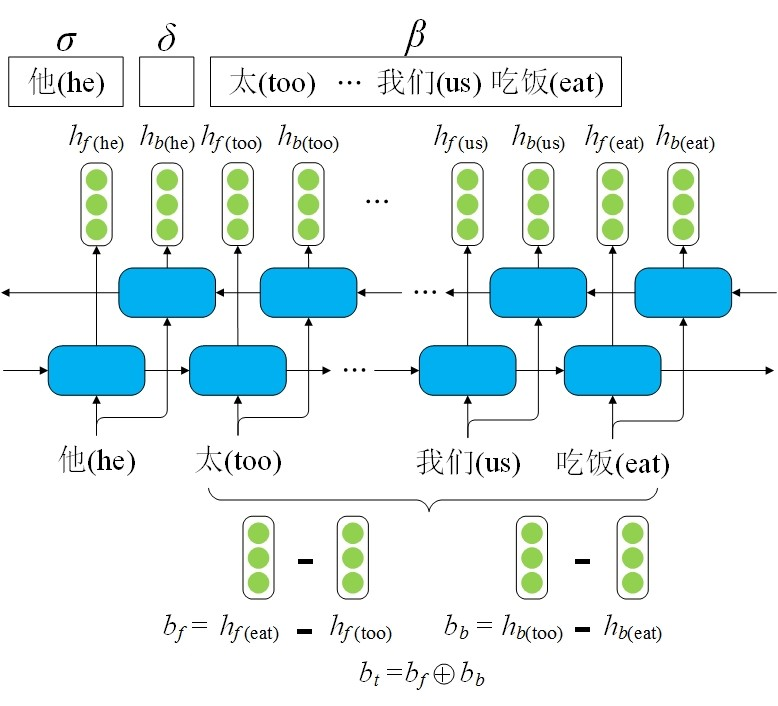
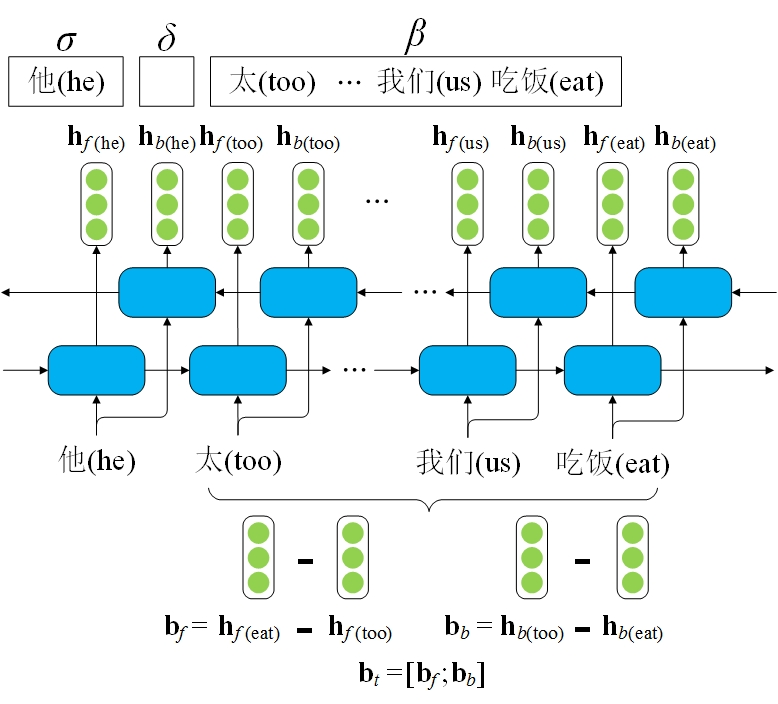
finish 4.2.2

diff --git a/body/plan.tex b/body/plan.tex
@@ -89,15 +89,19 @@ f(i,j)=
 该方法获得句中词的表示向量的步骤与\citeayu{peng-thomson-smith:2017:Long}相同，但在之后将这些表示输入4个不同的MLP分别获得每个词的4个表示向量：
 
 \begin{equation}
+\label{eq:arc-dep}
 \mathbf{h}^{(arc-dep)}_i = \text{MLP}^{(arc-dep)}(\mathbf{h}_i)
 \end{equation}
 \begin{equation}
+\label{eq:arc-head}
 \mathbf{h}^{(arc-head)}_i = \text{MLP}^{(arc-head)}(\mathbf{h}_i)
 \end{equation}
 \begin{equation}
+\label{eq:rel-dep}
 \mathbf{h}^{(rel-dep)}_i = \text{MLP}^{(rel-dep)}(\mathbf{h}_i)
 \end{equation}
 \begin{equation}
+\label{eq:rel-head}
 \mathbf{h}^{(rel-head)}_i = \text{MLP}^{(rel-head)}(\mathbf{h}_i)
 \end{equation}
 
@@ -115,12 +119,12 @@ f(i,j)=
 \begin{equation}
 \begin{split}
 \mathbf{s}^{(rel)}_i & = \mathbf{h}_{y'^{(arc)}}^{\top(rel-head)}\mathbf{U}^{(rel)}\mathbf{h}^{(rel-dep)}_i \\
-& + W^{(rel)}(\mathbf{h}^{(rel-dep)}_i \oplus \mathbf{h}^{(rel-head)}_{y'^{(arc)}_i}) \\
+& + W^{(rel)}([\mathbf{h}^{(rel-dep)}_i; \mathbf{h}^{(rel-head)}_{y'^{(arc)}_i}]) \\
 & + \mathbf{b}^{(rel)}
 \end{split}
 \end{equation}
 
-其中$\mathbf{s}^{(rel)}_i \in \mathbb{R}^{k}$是$k$个弧标签的分数向量，每一维表示一个标签的分数。$\mathbf{h}_{y'^{(arc)}}^{(rel-head)}$是词$y'_i$的$(rel-head)$表示向量，$\mathbf{h}^{(rel-dep)}_i$是词$x_i$的$(rel-dep)$表示向量，$\mathbf{U}^{(rel)} \in \mathbb{R}^{d\times k \times d}$是弧标签的权重张量，$W^{(rel)} \in \mathbb{R}^{k \times 2d}$是弧标签的权重矩阵，$\mathbf{b}^{(rel)}$是弧标签的偏移向量。最终选择分数最高的弧标签作为这条弧上的标签$y'^{(rel)}_i$：
+其中$\mathbf{s}^{(rel)}_i \in \mathbb{R}^{k}$是$k$个弧标签的分数向量，每一维表示一个标签的分数。$\mathbf{h}_{y'^{(arc)}}^{(rel-head)}$是词$y'_i$的$(rel-head)$表示向量，$\mathbf{h}^{(rel-dep)}_i$是词$x_i$的$(rel-dep)$表示向量，$\mathbf{U}^{(rel)} \in \mathbb{R}^{d\times k \times d}$是弧标签的权重张量，$W^{(rel)} \in \mathbb{R}^{k \times 2d}$是弧标签的权重矩阵，$\mathbf{b}^{(rel)}$是弧标签的偏置向量。最终选择分数最高的弧标签作为这条弧上的标签$y'^{(rel)}_i$：
 
 \begin{equation}
 y'^{(rel)}_i = \arg \max_j s^{(rel)}_{ij}
@@ -146,16 +150,69 @@ y'^{(rel)}_i = \arg \max_j s^{(rel)}_{ij}
 \begin{figure}[hbtp]
 	\centering
 	\includegraphics[width=130mm]{picture/ts-lstm.jpg}
-	\caption{TS-LSTM网络结构示意图（LSTM个数$N=3$，窗口长度$W=4$，时间跨度$TS=2$）}
+	\caption{TS-LSTM网络结构示意图（Bi-LSTM个数$N=3$，窗口长度$W=4$，时间跨度$TS=2$）}
 	\label{fig:ts-lstm}
 \end{figure}
 
-我们从\citeayu{lee2017ensemble}的动作识别的研究工作中得到了启发。他们提出了一种时间滑动长短时记忆网络（Temporal Sliding LSTM, TS-LSTM），由多个在输入序列上以一定的时间跨度滑动的LSTM组成。通过改变时间跨度$TS$和LSTM的窗口长度$W$可以实现提取不同长度依存信息的目的。该TS-LSTM的网络结构如图~\ref{fig:ts-lstm}所示。其中$x_t$表示句中第$t$个词的向量表示，
+我们从\citeayu{lee2017ensemble}的动作识别的研究工作中得到了启发。他们提出了一种时间滑动长短时记忆网络（Temporal Sliding LSTM, TS-LSTM），由多个在输入序列上以一定的时间跨度滑动的LSTM组成。通过改变时间跨度$TS$和LSTM的窗口长度$W$可以实现提取不同长度依存信息的目的。由于他们是对动作序列进行建模，需要时序关系，因此只使用了单向LSTM。为了同时获得句中词的上下文信息，我们将会使用双向LSTM，修改后的TS-LSTM的网络结构如图~\ref{fig:ts-lstm}所示，图中的TS-LSTM包括3个窗口长度为$W=4$的双向LSTM（分别用n=0,1,2表示），时间跨度为$TS=2$。其中$\mathbf{x}_t$表示句中第$t$个词的向量表示，$\mathbf{h}^n_t$表示句中第$t$个词在第$n$个Bi-LSTM中的表示。
 
-%该方法不但利用了语义依存图的结构特性，而且具有较强的可解释性，并且可以同时应用于基于转移的和基于图的分析方法中。
+TS-LSTM中第$n$个Bi-LSTM中正向LSTM的第$t$个时间节点的记忆单元$\mathbf{c}^{f,n}_t$、输入门$\mathbf{i}^{f,n}_t$、遗忘门$\mathbf{f}^{f,n}_t$、输出门$\mathbf{o}^{f,n}_t$及隐层状态$\mathbf{h}^{f,n}_t$分别为：
+
+\begin{equation}
+\mathbf{i}^{f,n}_t = \sigma(W^{f,n}_{ix} \mathbf{x}^{f,n}_t + W^{f,n}_{ih} \mathbf{h}^{f,n}_{t-1} + W^{f,n}_{ic} \mathbf{c}^{f,n}_{t-1} + \mathbf{b}^{f,n}_i)
+\end{equation}
+
+\begin{equation}
+\mathbf{f}^{f,n}_t = \sigma(W^{f,n}_{fx} \mathbf{x}^{f,n}_t + W^{f,n}_{fh} \mathbf{h}^{f,n}_{t-1} + W^{f,n}_{fc} \mathbf{c}^{f,n}_{t-1} + \mathbf{b}^{f,n}_f)
+\end{equation}
+
+\begin{equation}
+\mathbf{c}^{f,n}_t = \mathbf{f}^{f,n}_t \mathbf{c}^{f,n}_{t-1} + \mathbf{i}^{f,n}_t \tanh(W^{f,n}_{cx}\mathbf{x}^{f,n}_t + W^{f,n}_{ch}\mathbf{h}^{f,n}_{t-1} + \mathbf{b}^{f,n}_c)
+\end{equation}
+
+\begin{equation}
+\mathbf{o}^{f,n}_t = \sigma(W^{f,n}_{ox} \mathbf{x}^{f,n}_t + W^{f,n}_{oh} \mathbf{h}^{f,n}_{t-1} + W^{f,n}_{oc} \mathbf{c}^{f,n}_{t-1} + \mathbf{b}^{f,n}_o)
+\end{equation}
+
+其中$\sigma(\cdot)$表示sigmoid函数，$W^{f,n}_{ab}$表示第$n$个Bi-LSTM的正向LSTM的向量$\mathbf{b}$和$\mathbf{a}$之间的权重矩阵，$\mathbf{b}^{f,n}$表示第$n$个Bi-LSTM的正向LSTM中的偏置向量。反向LSTM的公式与其上述相同，只是方向相反，这里不再赘述。第$n$个Bi-LSTM的反向LSTM的在$t$时刻的隐层状态为$\mathbf{h}^{b,n}_t$，第$n$个Bi-LSTM中第$t$个词最终的表示向量$\mathbf{h}^n_t = [\mathbf{h}^{f,n}_t;\mathbf{h}^{b,n}_{W^n-t+1}]$，$W^n$是第$n$个Bi-LSTM的窗口长度。
+使用TS-LSTM，通过改变时间跨度和LSTM窗口长度，就可以实现对语义依存图中的短、中、长距离依赖的分别建模，该结构如图~\ref{fig:multi-ts-lstm}所示。该模型可以同时应用到基于转移的和基于图的依存分析中。
+
+\begin{figure}[hbtp]
+	\centering
+	\includegraphics[width=78mm]{picture/multi-ts-lstm.jpg}
+	\caption{使用多个TS-LSTM对输入序列建模}
+	\label{fig:multi-ts-lstm}
+\end{figure}
+
+在基于转移的依存分析中，可以使用该模型对缓存$\beta$进行建模，用时间跨度和Bi-LSTM窗口长度不同的TS-LSTM获得缓存基于不同距离依赖的表示向量，然后将它们拼接起来作为缓存最终的表示向量。具体来说，首先计算第$l$个TS-LSTM的表示向量$\mathbf{q}^l$：
+
+\begin{equation}
+\mathbf{q}^l = \sum^{W_l-1}_{t=0} \text{concat}([\mathbf{h}^{n}_{n\cdot TS_l + t}]^{n=N_l-1}_{n=0},0)
+\end{equation}
+
+其中$W_l$、$TS_l$和$N_l$分别是第$l$个TS-LSTM的窗口大小、时间跨度和Bi-LSTM个数，$[(\cdot)_n]^{n=N_l-1}_{n=0} = [(\cdot)_0;(\cdot)_1;\dots;(\cdot)_{N_l-1}]$，$\text{concat}([\dots],0)$表示把$[\ ]$中的元素沿第$0$个坐标轴拼接起来。这些基于不同长度依赖的TS-LSTM的表示向量既可以分别作为当前缓存$\beta$的表示替换公式~\ref{eq:trans}中的$\mathbf{b}_t$获得多个模型，然后对这些模型进行融合，也可以拼接起来后再替代原来的缓存在时刻$t$的表示向量$\mathbf{b}_t$：
+
+\begin{equation}
+\mathbf{b}_t = [\mathbf{q}^S;\mathbf{q}^M;\mathbf{q}^L;\mathbf{q}^W]
+\end{equation}
+
+其中$\mathbf{q}^S$、$\mathbf{q}^M$、$\mathbf{q}^L$和$\mathbf{q}^W$分别表示短、中、长距离依赖和整句TS-LSTM的表示向量。
+
+在基于图的依存分析中，用第$l$个TS-LSTM，可以计算出句中第$t$个词的表示$\mathbf{h}^l_t$：
+
+\begin{equation}
+\mathbf{h}^l_t = \sum_{n \in [(t-W_l/)TS_l,t/TS_l]}\mathbf{h}^{l,n}_t
+\end{equation}
+
+其中$\mathbf{h}^{l,n}_t$表示第$l$个TS-LSTM中第$n$个Bi-LSTM计算出的句中第$t$个词的表示。因此，对每个词可以获得分别来自短、中、长距离依赖及整句TS-LSTM的4个表示向量。分别用这4组表示向量替换公式~\ref{eq:arc-dep}-\ref{eq:rel-head}中的$\mathbf{h}_i$，可以得到4个基于不同距离依赖的TS-LSTM的模型。然后可以用传统模型融合方法对这4个模型进行融合，从而提高基于图的依存图分析系统的性能。
 
 \subsubsection{面向语义分析任务的多任务学习技术}
 
+多任务学习（Multi-Task Learning, MTL）是一种通过利用相关任务中包含的信息帮助目标任务学习的归纳迁移方法，它通过使用共享的表示平行地学习多个任务来实现这一目标\citeyqy{caruana1998multitask}。自然语言处理领域早已有一系列将多任务学习应用于分词、词性标注及句法分析等任务的工作\citeyqy{li-EtAl:2011:EMNLP3,hatori-EtAl:2012:ACL2012,bohnet-nivre:2012:EMNLP-CoNLL}。这类工作基本都可以归纳为使用了\citeayu{ando2005framework}提出的参数共享方法。在神经网络模型框架下，\citeayu{Collobert:2008:UAN:1390156.1390177}提出了一种通过共享词向量同时解决多个自然语言处理任务的方法。\citeayu{luong2015iclr}将多任务学习技术应用到序列到序列任务中，同时解决句法分析、机器翻译及图像标注等任务。\citeayu{guo2016coling}提出了一个以多种树库为分析目标的多任务学习框架，通过神经网络中多级别的参数共享实现了在多语言、多标注规范的不同树库上的多任务学习。
+
+为了解决语义依存图分析任务目前阶段相关数据资源有限的问题，我们计划在前文中提到的基于转移的和基于图的分析方法中的神经网络框架的基础上使用多任务学习技术。同时利用现有的SemEval-2016 Task 9中文语义依存图数据集和SemEval-2015 Task 18英文广义语义依存图数据集以及语义角色标注、句法依存分析等与语义依存图分析任务在结构上相似的任务的数据\citeyqy{surdeanu-EtAl:2008:CONLL,hajivc-EtAl:2009:CoNLL-2009-ST}，从而提高语义依存图分析器的性能。下面分别介绍在基于转移的和基于图的两类依存图分析方法中应用多任务学习技术的方案。
+
+在基于转移的方法中，我们将借鉴\citeayu{guo2016coling}的多任务学习框架。他们以\citeayu{ballesteros-dyer-smith:2015:EMNLP}的基于词的Stack-LSTM系统为基础模型，根据所处理多个任务的不同情况（多语言标注体系相同和单语言标注体系不同两种情况）设计了不同的参数共享策略。
 
 \subsection{可行性分析}
 \begin{enumerate}

diff --git a/body/approach.tex b/body/approach.tex
@@ -136,10 +136,10 @@
 \vspace{-0.6em}
 
 \begin{equation}
-h=(W[x_w;x_t;x_l ]+b)^3
+\mathbf{h}=(W[\mathbf{x}_w;\mathbf{x}_t;\mathbf{x}_l ]+\mathbf{b})^3
 \end{equation}
 
-其中$x_w$、$x_t$和$x_l$分别为表示词、词性和依存关系的向量，$b$为偏置项。
+其中$\mathbf{x}_w$、$\mathbf{x}_t$和$\mathbf{x}_l$分别为表示词、词性和依存关系的向量，$\mathbf{b}$为偏置项。
 
 \begin{figure}[hbtp]
 	\centering
@@ -150,28 +150,29 @@ h=(W[x_w;x_t;x_l ]+b)^3
 
 受到该工作的启发，我们在录用于CCL 2016的工作中也使用了MLP作为分类器\citeyqy{wang2016transition}，有效解决了上述几个问题。首先，由于对词向量的初始化使用了用大规模语料预先训练得到的词向量，其中包含的词比训练语料中出现的词要多很多，一定程度上缓解了数据稀疏问题。其次，神经网络中采用三次方函数作为激活函数，避免了人工特征组合，而且对所有隐层节点特征进行三三组合，对特征组合的覆盖更全面。最后，神经网络中使用低维稠密的向量形式表示词、词性和依存弧特征，避免了特征字符串组合的过程，大大缩短了分析所需时间。然而在该方法中仍然只选择了转移系统中有限的一些位置的特征向量作为预测的依据，还有大量位置未被考虑，而这些位置却可能包含了长距离依赖等对于依存分析十分重要的信息。
 
-\citeayu{dyer-EtAl:2015:ACL-IJCNLP}提出了Stack LSTM结构，用几个单向LSTM分别计算转移系统中每部分所有信息的表示向量，然后将这些向量组合起来作为当前转移状态的表示$e_t$：
+\citeayu{dyer-EtAl:2015:ACL-IJCNLP}提出了Stack LSTM结构，用几个单向LSTM分别计算转移系统中每部分所有信息的表示向量，然后将这些向量组合起来作为当前转移状态的表示$\mathbf{e}_t$：
 
 \vspace{-0.6em}
 \begin{equation}
-e_t=\max(0,W[s_t\oplus b_t \oplus p_t \oplus a_t ]+d)
+\label{eq:trans}
+\mathbf{e}_t=\max(0,W[\mathbf{s}_t;\mathbf{b}_t; \mathbf{p}_t; \mathbf{a}_t ]+\mathbf{d})
 \end{equation}
 
-其中$W$是参数矩阵，$s_t$是Stack LSTM对$\sigma$的编码，$b_t$是Stack LSTM对$\beta$的编码， $p_t$是Stack LSTM对$\delta$的编码，$a_t$是Stack LSTM对$A$的编码，$d$是偏置项。
-之后转移状态$e_t$用于计算该状态下转移动作的概率分布：
+其中$W$是参数矩阵，$\mathbf{s}_t$是Stack LSTM对$\sigma$的编码，$\mathbf{b}_t$是Stack LSTM对$\beta$的编码， $\mathbf{p}_t$是Stack LSTM对$\delta$的编码，$\mathbf{a}_t$是Stack LSTM对$A$的编码，$\mathbf{d}$是偏置项。
+之后转移状态$\mathbf{e}_t$用于计算该状态下转移动作的概率分布：
 
 \vspace{-0.6em}
 \begin{equation}
-p(z_t|e_t)=\frac{\exp(g^T_{z_t}e_t + q_{z_t})}{\sum_{z'\in A(\sigma, \beta)}\exp (g^T_{z'}e_t+q_{z'})}
+p(z_t|e_t)=\frac{\exp(\mathbf{g}^T_{z_t}\mathbf{e}_t + q_{z_t})}{\sum_{z'\in A(\sigma, \beta)}\exp (\mathbf{g}^T_{z'}\mathbf{e}_t+q_{z'})}
 \end{equation}
 
-其中$g_z$是用于表示转移动作$z$的列向量，而$q_z$是其偏置项，集合$A(\sigma,\beta)$是在当前状态下可以执行的转移动作。
+其中$\mathbf{g}_z$是用于表示转移动作$z$的列向量，而$q_z$是其偏置项，集合$A(\sigma,\beta)$是在当前状态下可以执行的转移动作。
 
 为了获取对转移状态更全面的表示，我们在该结构的基础上提出了2个有效的神经网络模块，即Bi-LSTM Subtraction和Incremental Tree-LSTM，分别对转移过程中的缓存和子图进行建模，因此我们最终的依存图分析系统简称为BS-IT系统。图~\ref{fig:bsit}给出了我们提出的模型的整体结构图。接下来分别对两个模块进行具体介绍。
 
 \begin{figure}[hbtp]
 	\centering
-	\includegraphics[width=130mm]{picture/bsit.jpg}
+	\includegraphics[width=130mm]{picture/bs-it.jpg}
 	\caption{BS-IT系统模型整体结构图}
 	\label{fig:bsit}
 \end{figure}
@@ -193,18 +194,18 @@ p(z_t|e_t)=\frac{\exp(g^T_{z_t}e_t + q_{z_t})}{\sum_{z'\in A(\sigma, \beta)}\exp
 我们用以下公式计算整个缓存在$t$时刻的表示$b_t$：
 
 \begin{equation}
-b_f=h_f(l)-h_f(f)
+\mathbf{b}_f=\mathbf{h}_f(l)-\mathbf{h}_f(f)
 \end{equation}
 \begin{equation}
-b_b=h_b(f)-h_b(l)
+\mathbf{b}_b=\mathbf{h}_b(f)-\mathbf{h}_b(l)
 \end{equation}
 \begin{equation}
-b_t=b_f \oplus b_b
+\mathbf{b}_t=[\mathbf{b}_f ; \mathbf{b}_b]
 \end{equation}
 
-其中，$l$和$f$分别表示在$t$时刻缓存$\beta$中最左边的词和最右边的词，$h_f(a)$和$h_b(a)$分别表示词$a$在从左向右和从右向左的LSTM中的隐层输出。
+其中，$l$和$f$分别表示在$t$时刻缓存$\beta$中最左边的词和最右边的词，$\mathbf{h}_f(a)$和$\mathbf{h}_b(a)$分别表示词$a$在从左向右和从右向左的LSTM中的隐层输出。
 
-例如图~\ref{fig:bs}中计算缓存的表示时，先用“吃饭”的正向LSTM表示$h_f(eat)$减去“太”的正向LSTM表示$h_f(too)$，获得该段正向的表示，再用“太”的反向LSTM表示$h_b(too)$减去“吃饭”的反向LSTM表示$h_b(eat)$，获得该段反向的表示。二者拼接起来作为此时缓存的表示。
+例如图~\ref{fig:bs}中计算缓存的表示时，先用“吃饭”的正向LSTM表示$\mathbf{h}_f(eat)$减去“太”的正向LSTM表示$\mathbf{h}_f(too)$，获得该段正向的表示，再用“太”的反向LSTM表示$\mathbf{h}_b(too)$减去“吃饭”的反向LSTM表示$\mathbf{h}_b(eat)$，获得该段反向的表示。二者拼接起来作为此时缓存的表示。
 
 \citeayu{dyer-EtAl:2015:ACL-IJCNLP}的模型中使用基于依存的递归神经网络（RecNN）\citeyqy{socher2011parsing}来计算转移过程中的子结构，在处理较深的子结构时，这种方法可能会遇到梯度消失问题。为了解决该问题，我们利用Tree-LSTM\citeyqy{tai-socher-manning:2015:ACL-IJCNLP}对这些子结构进行建模。图~\ref{fig:it}显示了我们提出的Incremental Tree-LSTM与基于依存的RecNN的区别。RecNN通过递归地组合一个个父节点-子节点对来构建子图，而Tree-LSTM则能同时合并一个节点及其所有子节点。我们将该模块命名为Incremental Tree-LSTM。
 
